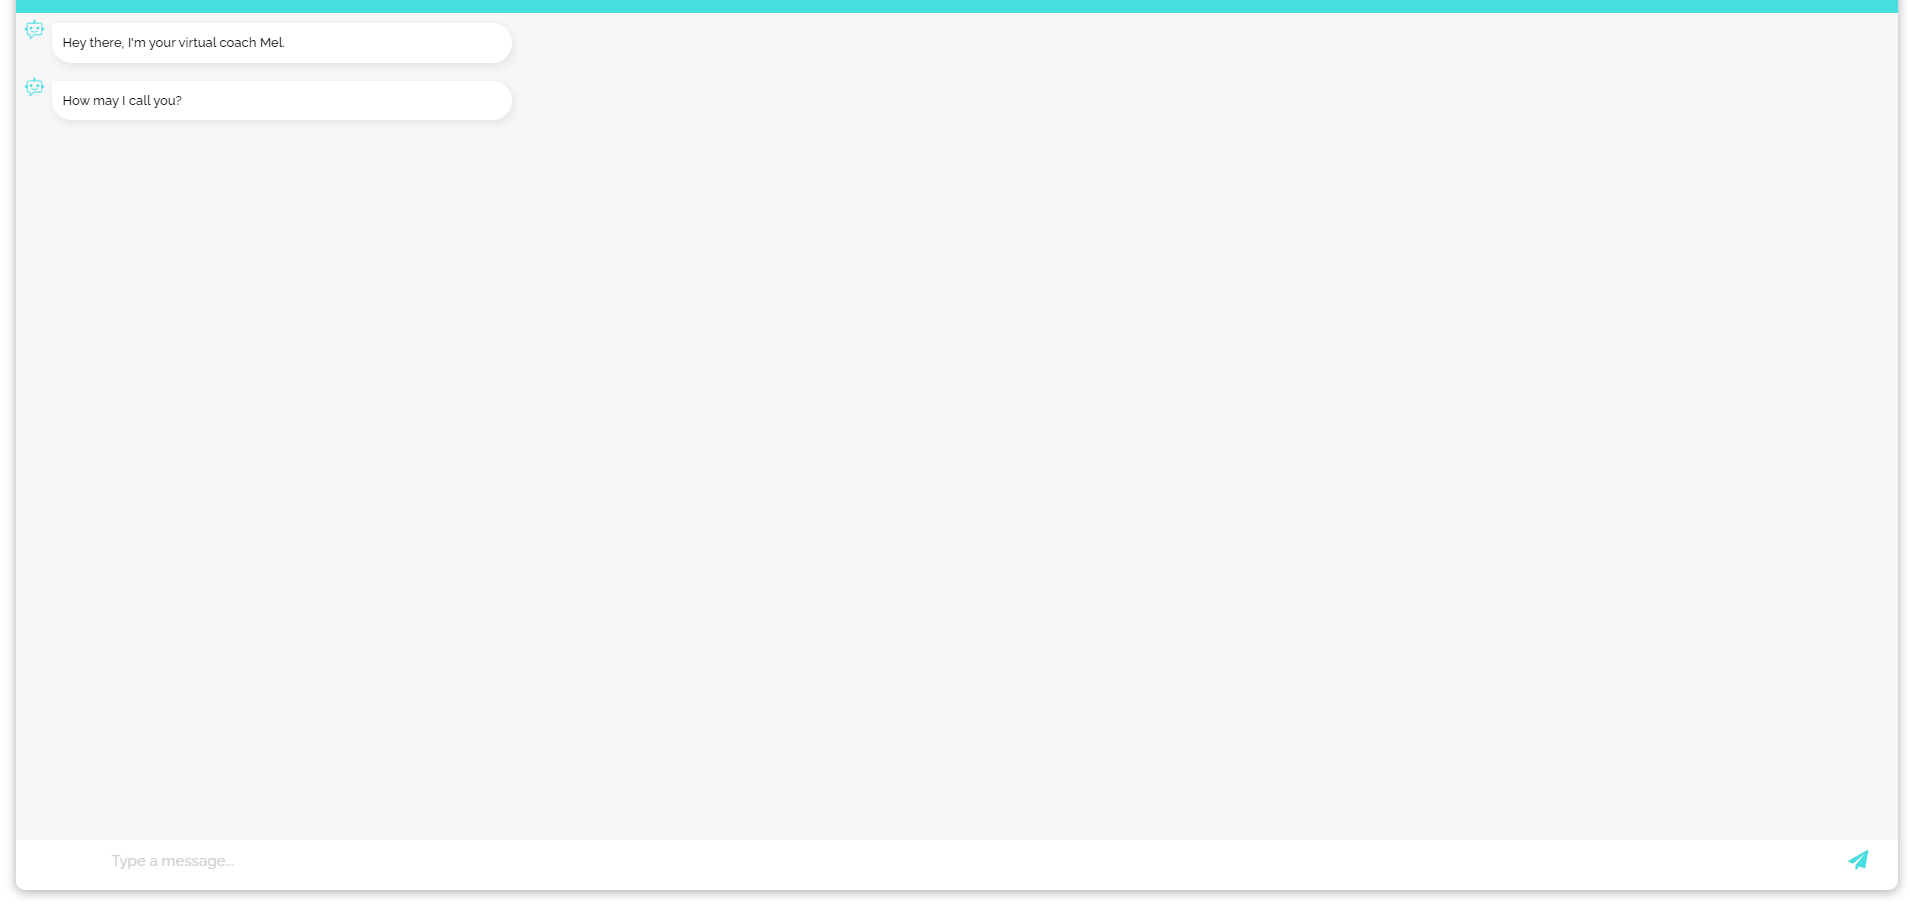
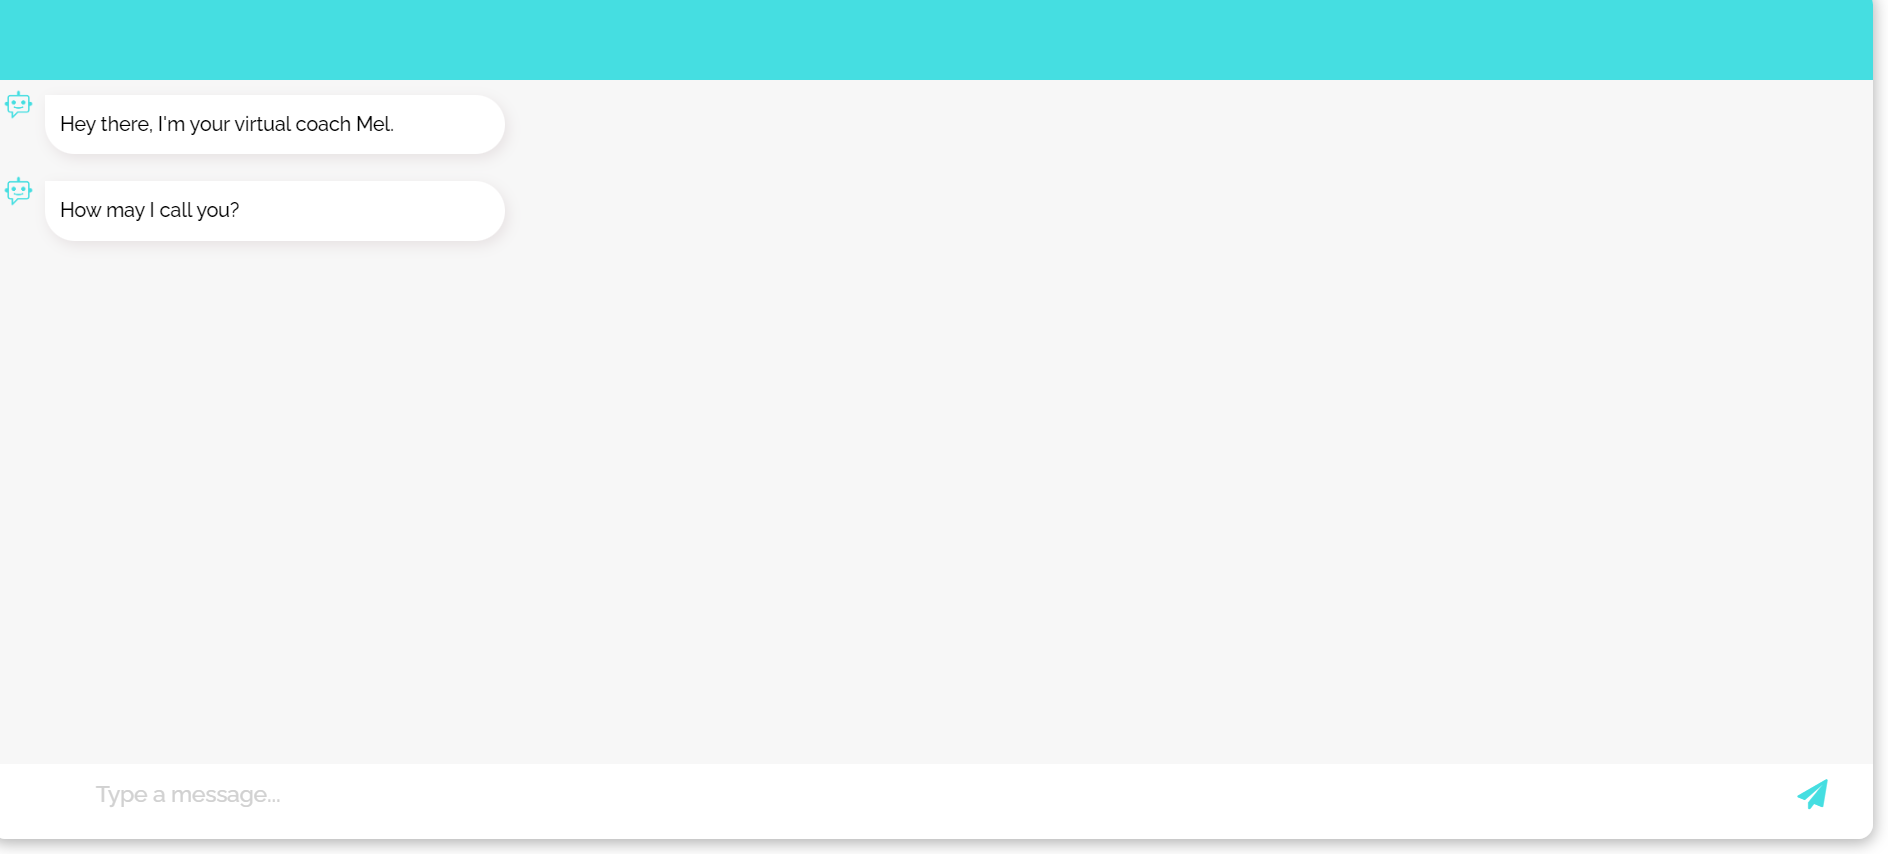
change fullscreen setup

diff --git a/frontend/static/js/script.js b/frontend/static/js/script.js
@@ -9,14 +9,6 @@ $(document).ready(function () {
 	//get session number
 	const session_num = urlParams.get('n');
 	
-	// Make fullscreen
-	if ($('.widget').width() == 350) {
-		$('.widget').css("width" , "98%");
-		$('.widget').css("height" , "100%");
-	} else {
-		$('.widget').css("width" , "350px");
-		$('.widget').css("height" , "100%");
-	}
 	
 	//start a session
 	if (session_num == "1"){
@@ -31,7 +23,6 @@ $(document).ready(function () {
 		send('/start_session_last{"session_num":"5"}');
 	}
 	
-
 })
 
 //=====================================	user enter or sends the message =====================

diff --git a/frontend/static/css/style.css b/frontend/static/css/style.css
@@ -7,10 +7,11 @@ body {
 
 .widget {
 	display: none;
-	width: 350px;
-	right: 15px;
-	height: 500px;
-	bottom: 5%;
+	width: 98%;
+	right: 1%;
+	left: 1%;
+	height: 98%;
+	bottom: 2%;
 	position: fixed;
 	background: #f7f7f7;
 	border-radius: 10px 10px 10px 10px;

diff --git a/README.md b/README.md
@@ -67,18 +67,23 @@ To run this project on a Google Compute Engine, I followed these steps:
    
    <img src = "Readme_images/chat.PNG" width = "500" title="Chat.">
    
-   - Right now I have set the code in frontend/static/js/script.js such that the chat is always opened in fullscreen. See this code:
+   - Right now I have set the code in frontend/static/css/style.css such that the chat is always opened in fullscreen. See this code:
      
-	 ```js
-	 if ($('.widget').width() == 350) {
-		$('.widget').css("width" , "98%");
-		$('.widget').css("height" , "100%");
-	 } else {
-		$('.widget').css("width" , "350px");
-		$('.widget').css("height" , "100%");
-	 }
+	 ```css
+	 .widget {
+	 display: none;
+	 width: 98%;
+	 right: 1%;
+	 left: 1%;
+	 height: 98%;
+	 bottom: 2%;
+	 position: fixed;
+	 background: #f7f7f7;
+	 border-radius: 10px 10px 10px 10px;
+	 box-shadow: 0px 2px 10px 1px #b5b5b5;
+     }
 	 ```
-      - The code by Tom Jacobs (https://github.com/TomJ-EU/rasa/tree/dev) instead adds a "fullscreen"-option to the drop-down used in the code by Jitesh Gaikwad (https://github.com/AmirStudy/Rasa_Deployment). For example, like this in script.js:
+      - The code by Tom Jacobs (https://github.com/TomJ-EU/rasa/tree/dev) instead first opens the chat as a smaller window and adds a "fullscreen"-option to the drop-down used in [the code by Jitesh Gaikwad](https://github.com/AmirStudy/Rasa_Deployment). For example, like this in script.js:
    
 		```js
 		//fullscreen function to toggle fullscreen.
